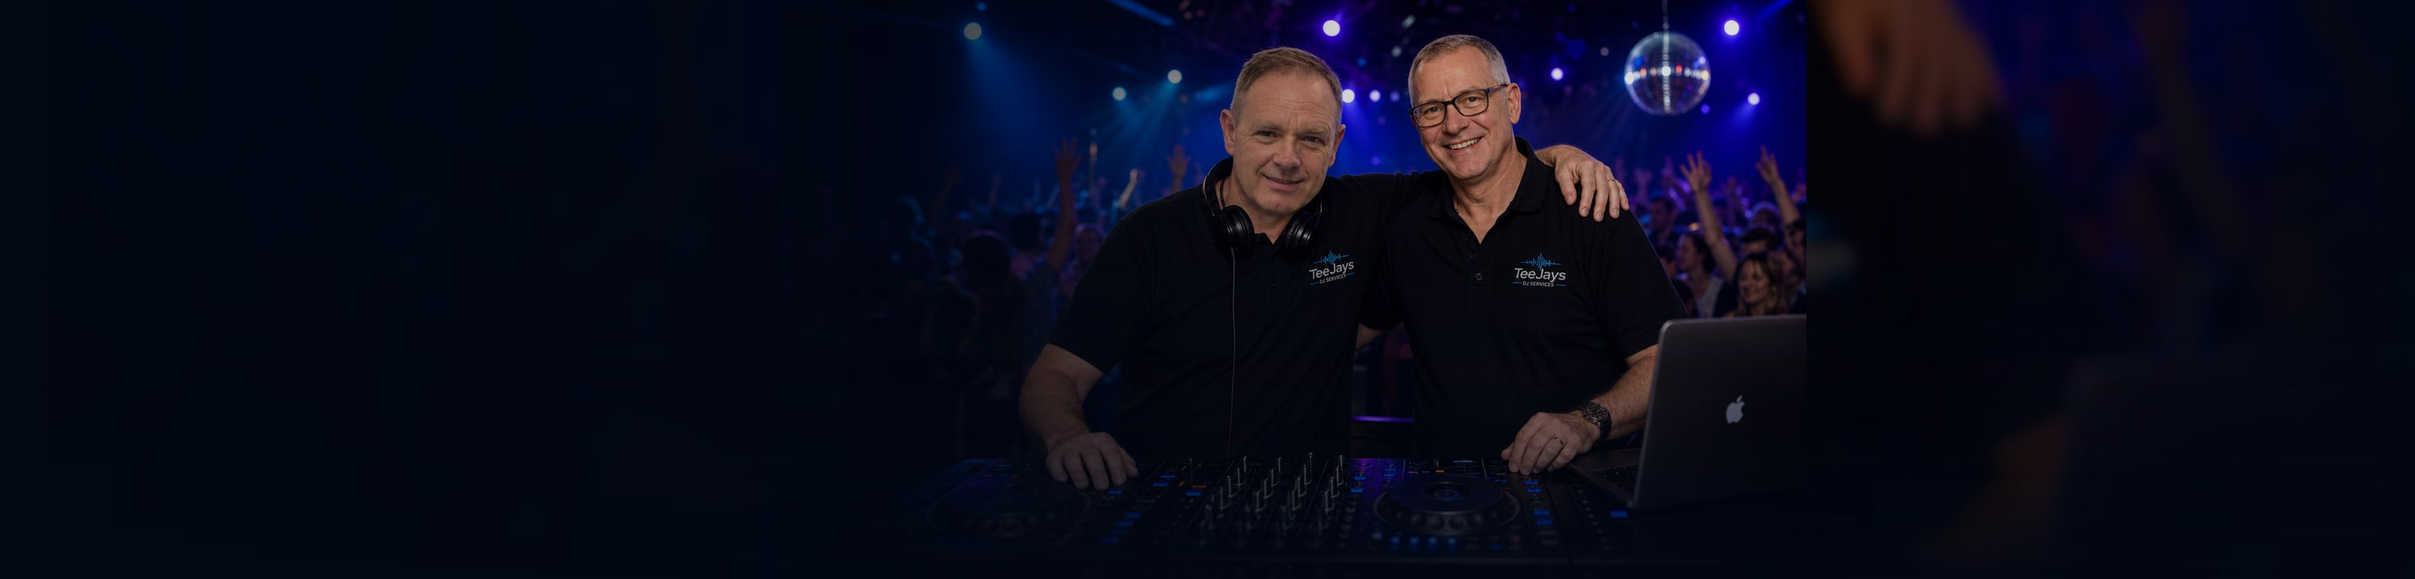
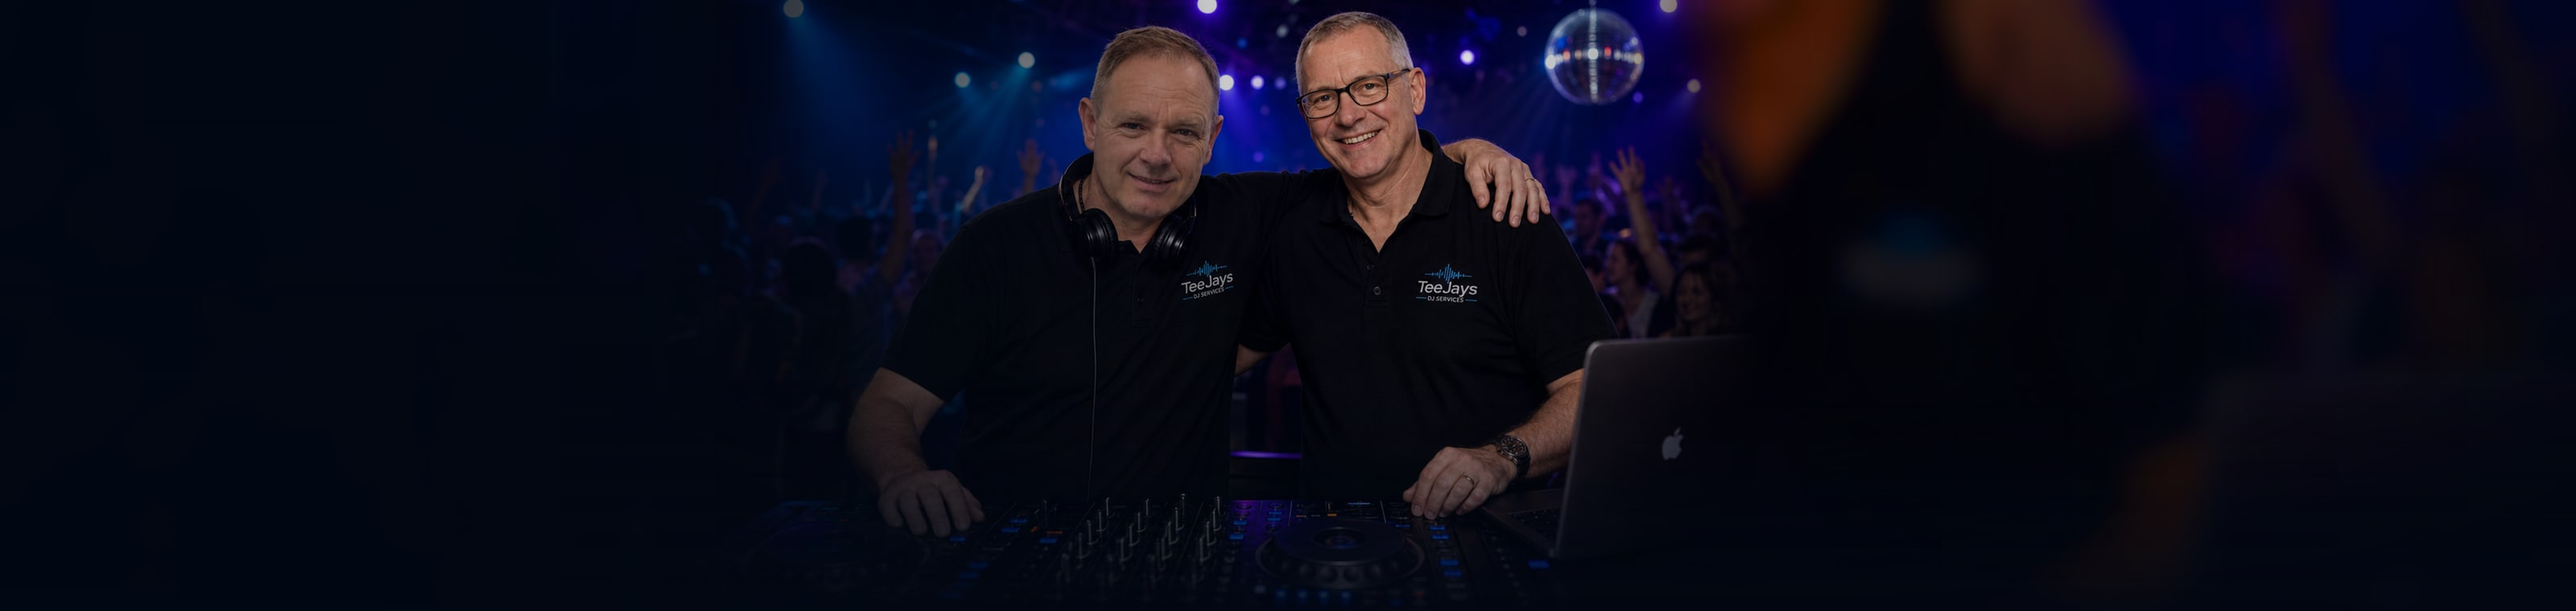
Deploy TeeJays Astro site to Workers

diff --git a/src/styles/site.css b/src/styles/site.css
@@ -220,7 +220,7 @@ svg {
 	width: 100%;
 	object-fit: cover;
 	object-position: center center;
-	filter: brightness(0.94) contrast(1.08) saturate(1);
+	filter: brightness(1.05) contrast(1.06) saturate(1.02);
 	opacity: 1;
 	transform: none;
 	transform-origin: center;
@@ -229,8 +229,8 @@ svg {
 .hero-wash,
 .page-hero-wash {
 	background:
-		linear-gradient(90deg, rgba(2, 8, 19, 0.98) 0%, rgba(2, 8, 19, 0.82) 35%, rgba(2, 8, 19, 0.18) 58%, rgba(2, 8, 19, 0.54) 100%),
-		linear-gradient(0deg, rgba(2, 8, 19, 0.86), transparent 54%);
+		linear-gradient(90deg, rgba(2, 8, 19, 0.9) 0%, rgba(2, 8, 19, 0.68) 34%, rgba(2, 8, 19, 0.08) 58%, rgba(2, 8, 19, 0.28) 100%),
+		linear-gradient(0deg, rgba(2, 8, 19, 0.68), transparent 58%);
 }
 
 .hero-inner,
@@ -241,6 +241,11 @@ svg {
 	height: 100%;
 	margin: 0 auto;
 	padding: 0 54px;
+}
+
+.hero-inner {
+	max-width: none;
+	padding: 0 clamp(32px, 3.6vw, 70px);
 }
 
 .hero-copy {
